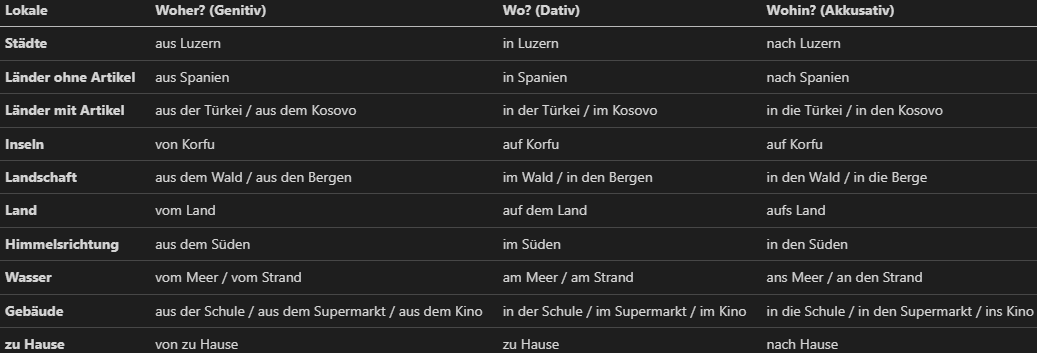
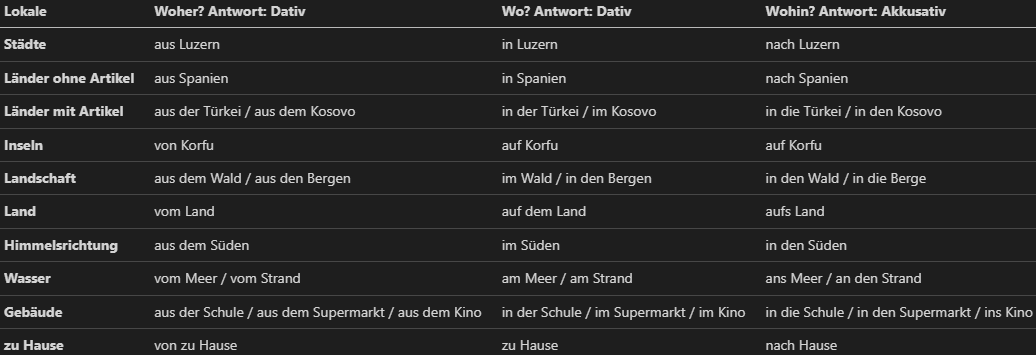
Fixed lokale

diff --git a/lokale.md b/lokale.md
@@ -1,5 +1,5 @@
-| **Lokale**           | **Woher?** (Genitiv)                               | **Wo?** (Dativ)                         | **Wohin?** (Akkusativ)                       |
-|-------------------------|----------------------------------------------------|------------------------------------------|---------------------------------------------|
+| **Lokale**              | **Woher?** Antwort: Dativ                          | **Wo?** Antwort: Dativ                  | **Wohin?** Antwort: Akkusativ                |
+|-------------------------|----------------------------------------------------|-----------------------------------------|----------------------------------------------|
 | **Städte**              | aus Luzern                                         | in Luzern                               | nach Luzern                                  |
 | **Länder ohne Artikel** | aus Spanien                                        | in Spanien                              | nach Spanien                                 |
 | **Länder mit Artikel**  | aus der Türkei / aus dem Kosovo                    | in der Türkei / im Kosovo               | in die Türkei / in den Kosovo                |
